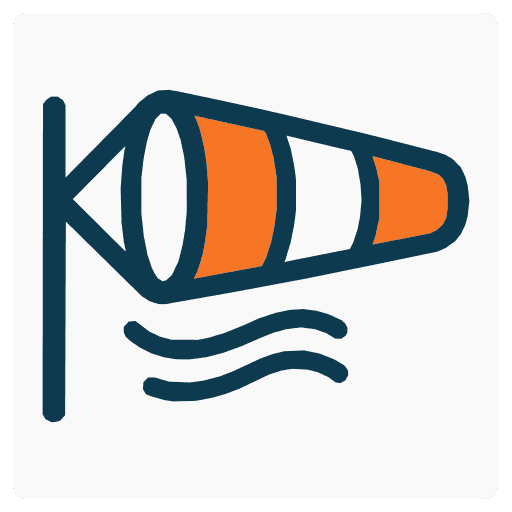
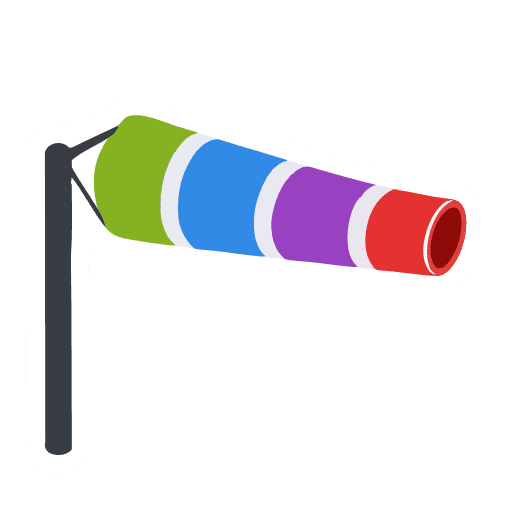
🎨 Refresh app branding assets
Why: The old app icon set no longer matched the current winds.mobi palette, and the navbar logo was still pointing at the outdated raster asset.
How: Update the shared logo asset, refresh the favicon and PWA icon files, and point the navbar logo image to the SVG version.
Notes: This commit matches the v0.0.20 changelog note about the refreshed app icons.

Changed region(s): [[0.0625, 0.1562, 0.9375, 0.9062], [0.2188, 0.5938, 0.6875, 0.8125]]

diff --git a/public/CHANGELOG.md b/public/CHANGELOG.md
@@ -6,6 +6,7 @@
 
 - Refined the mobile map layout so landscape phones now show station details beside the map instead of below it, with more stable full-height behavior when rotating the device.
 - Improved chart down-scaling on smaller screens so polar-chart labels and time-series controls stay better proportioned as available space shrinks.
+- Refreshed the app icon set so the favicon and related app icons reflect the winds.mobi color palette more clearly.
 
 ## v0.0.19 - 2026-04-02
 
